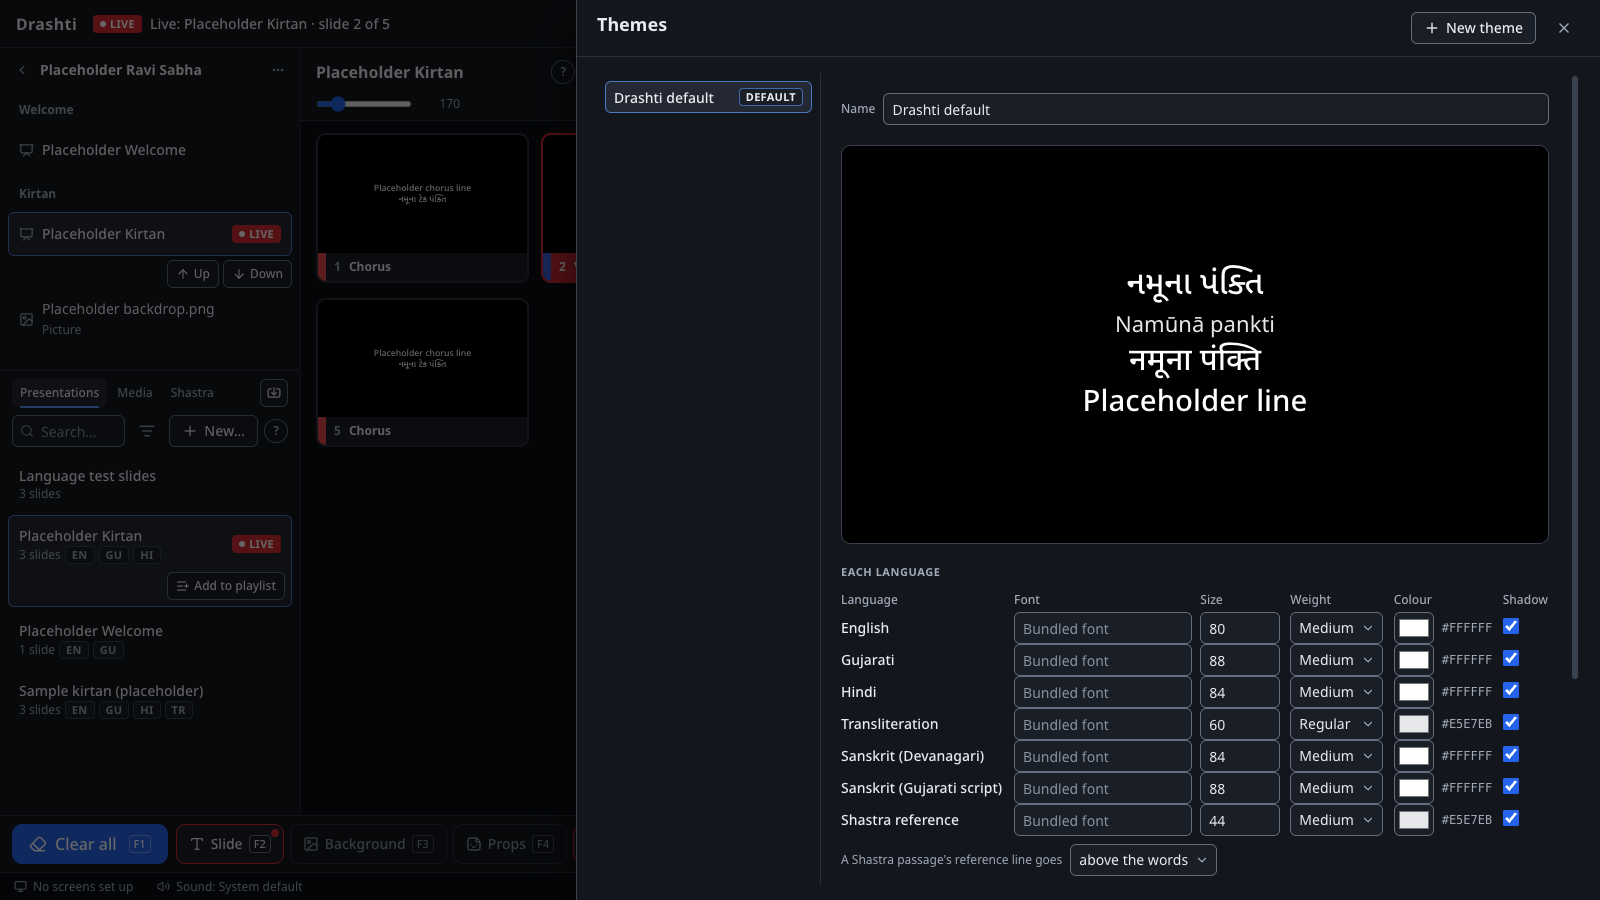
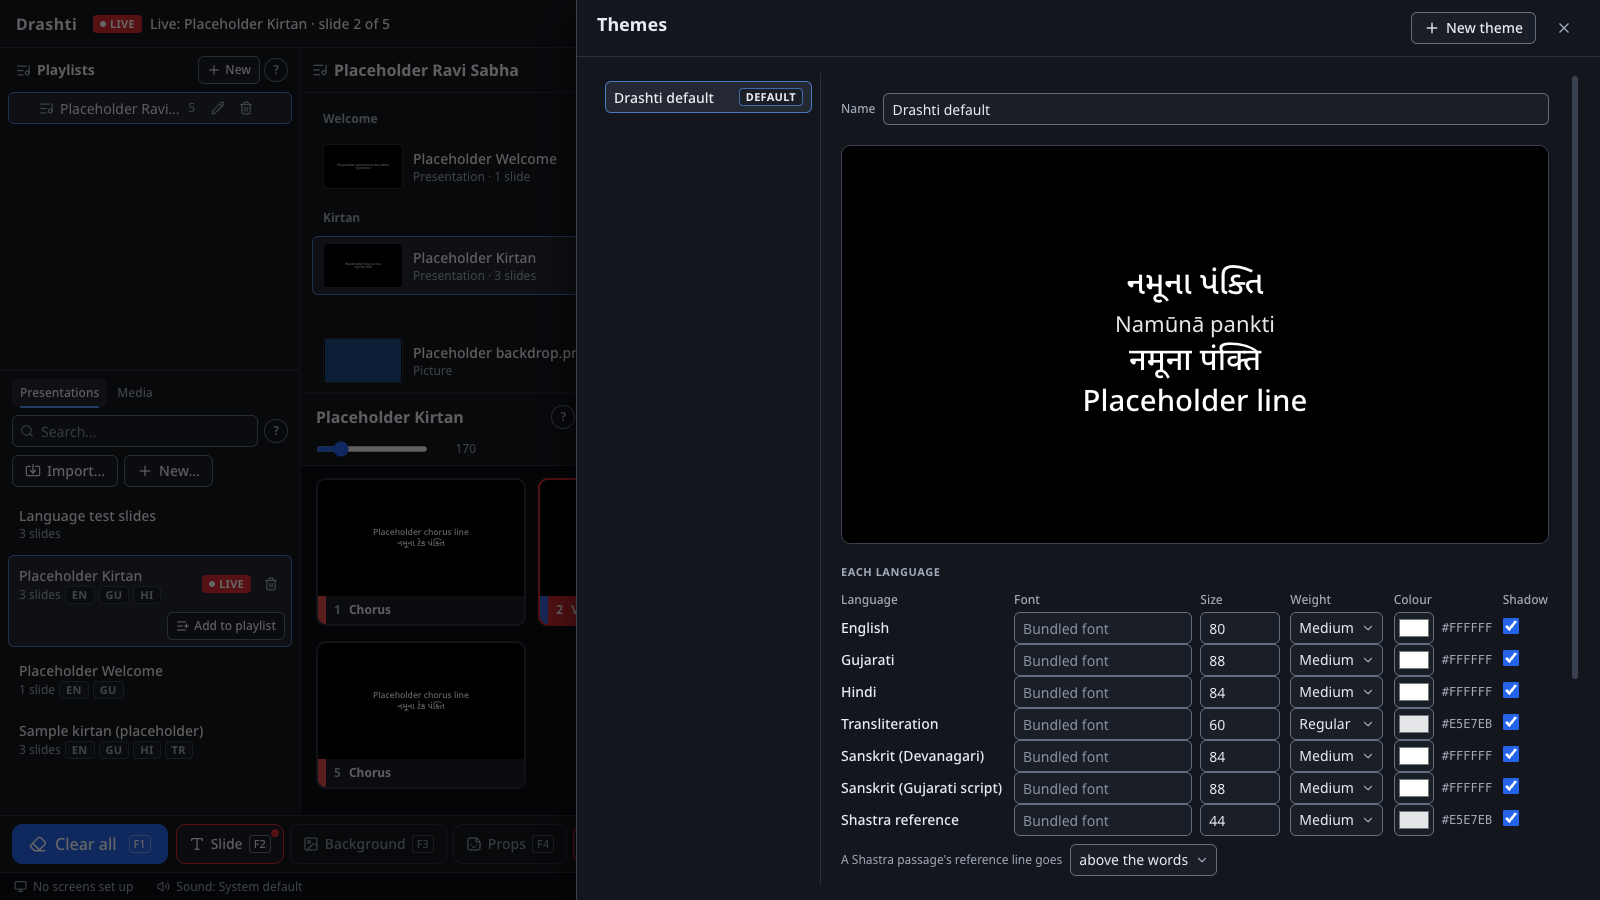
Screenshots of the operator window built round playlists, from CI screenshots run 38531368710 (Session 26b step 7)
The operator window at 1280 x 720 and 1920 x 1080, the open playlist's
cards (every kind), the window at 1600 x 900, Up and Down, What is this?,
and the shots of the panels the new layout moved; the cards in the
operator guide and the 1600 x 900 window in design.md section 9.

diff --git a/docs/operator-guide.md b/docs/operator-guide.md
@@ -13,6 +13,8 @@ On the Mac, **Cmd** is the ⌘ key; on Windows use **Ctrl** instead. On Windows 
 - **Right column:** the live picture, headed **LIVE** (what the hall sees now), then **Audio** (Music and the Arti), the **Stage screen**, **Messages**, **Timers** (one line each: start or pause, reset, show on the screens, Edit), **Props** and **Looks**, and **More tools**, folded away: Macros, Masks and the Idle rotation, each with a line saying what it is.
 - **Along the bottom:** the **clear buttons** for each layer, **Logo** and **Black-out**, then the **status bar** (the version, the screens, imports, warnings).
 
+![The open playlist in the middle: its items as cards, a header before each part](screenshots/playlist-cards.png)
+
 ---
 
 ## 1. Before the sabha

diff --git a/docs/design.md b/docs/design.md
@@ -133,6 +133,8 @@ There are three columns between a header and a footer:
 
 The columns are resized with `Splitter`s and the sizes are remembered on the computer (`ui/persist.ts`). Everything fits at 1280 × 720 with nothing cut off or overlapping, every control inside its column. Simple Mode is one screen with big buttons, and fits at 1280 × 720 too.
 
+![The operator window at 1600 × 900: the playlists, the open playlist's cards above the chosen deck's slides, and the right column](screenshots/operator-playlist-1600x900.png)
+
 ## 10. Simple Mode
 
 Simple Mode (`src/renderer/src/simple/`) is for a volunteer who has never used Drashti:
